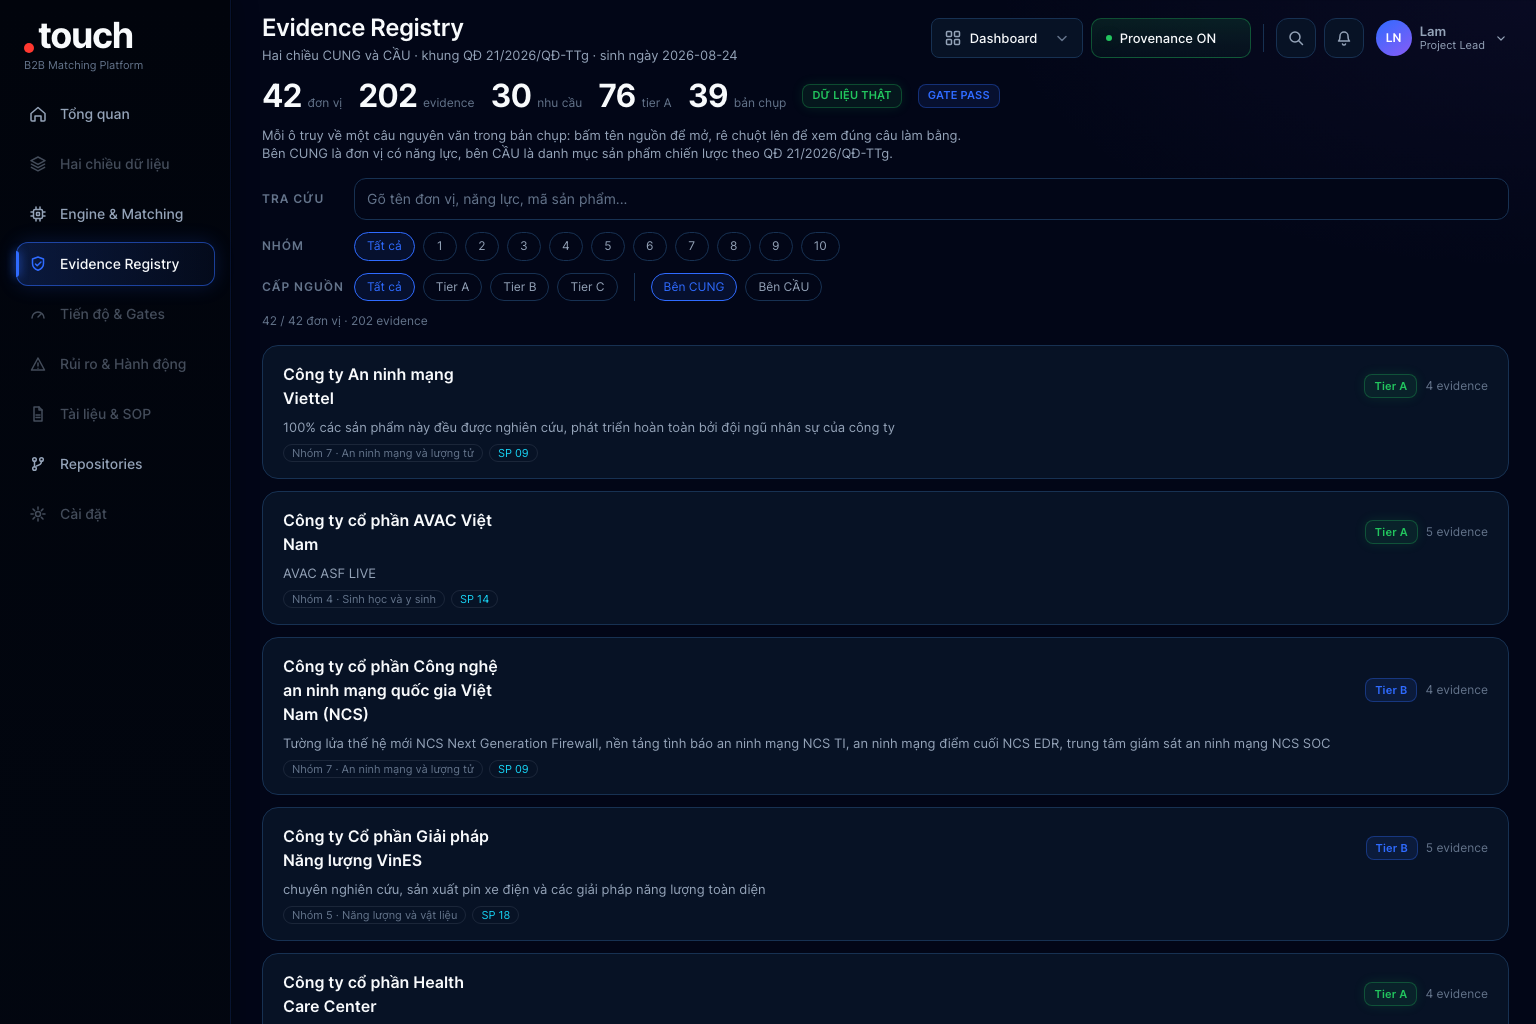
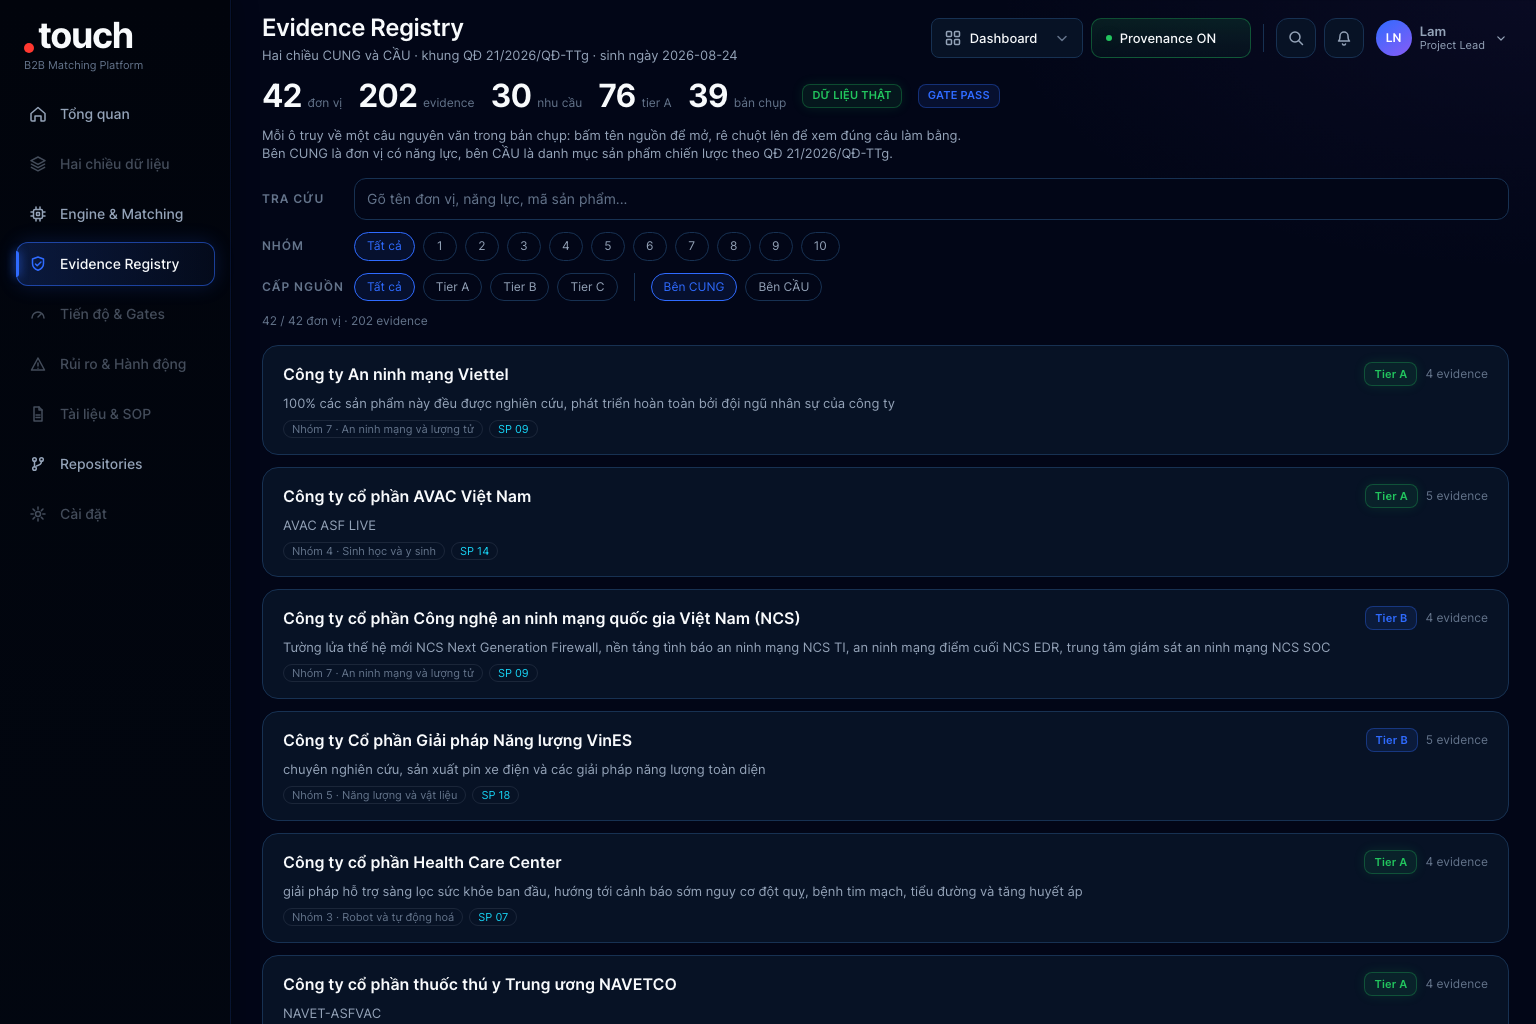
fix(ui): chuoi dinh danh dai xuong dong rieng thay vi ngat giua chu

diff --git a/styles/dashboard.css b/styles/dashboard.css
@@ -470,6 +470,10 @@
 .dash-shell .mw-trail__k { color: var(--color-text-muted); }
 .dash-shell .mw-trail__v { color: var(--color-text-secondary); min-width: 0; overflow-wrap: anywhere; }
 .dash-shell .mw-trail li.is-claim .mw-trail__v { color: var(--color-accent-amber); }
+/* Dong mang chuoi dinh danh dai (engine version, khoa bam): cho nhan len tren, gia tri
+   chiem tron be ngang. Ep vao cot 1fr thi chuoi mono bi ngat GIUA CHU, kieu 'overla p_v2',
+   nhin nhu chu bi hong chu khong nhu chu xuong dong. */
+.dash-shell .mw-trail li.is-dai { grid-template-columns: minmax(0, 1fr); gap: var(--space-1); }
 .dash-shell .mw-vouch { margin-top: var(--space-3); padding: var(--space-2_5) var(--space-3); border-radius: var(--radius-sm); background: var(--fill-blue-subtle); border: var(--stroke-hairline) solid var(--color-border-subtle); font-size: 12px; line-height: 16px; color: var(--color-text-secondary); }
 .dash-shell .mw-hint { font-size: 12px; line-height: 16px; color: var(--color-text-muted); margin: var(--space-2) 0 var(--space-3); }
 .dash-shell .mw-note { width: 100%; background: var(--color-bg-surface-2); border: var(--stroke-hairline) solid var(--color-border-subtle); border-radius: var(--radius-sm); color: var(--color-text-primary); font-size: 13px; padding: var(--space-2_5) var(--space-3); margin-top: var(--space-1_5); resize: vertical; font-family: var(--font-ui); }

diff --git a/components/dash/MatchingWorkbench.tsx b/components/dash/MatchingWorkbench.tsx
@@ -166,7 +166,7 @@ export function MatchingWorkbench() {
                   {current.khoaBangChung ?? 'chưa đóng khoá'}
                 </span>
               </li>
-              <li><span className="mw-trail__k">Engine</span><span className="mw-trail__v t-mono-01">{current.engine}</span></li>
+              <li className="is-dai"><span className="mw-trail__k">Engine</span><span className="mw-trail__v t-mono-01">{current.engine}</span></li>
             </ul>
 
             {current.chuaDuyet.length > 0 ? (
